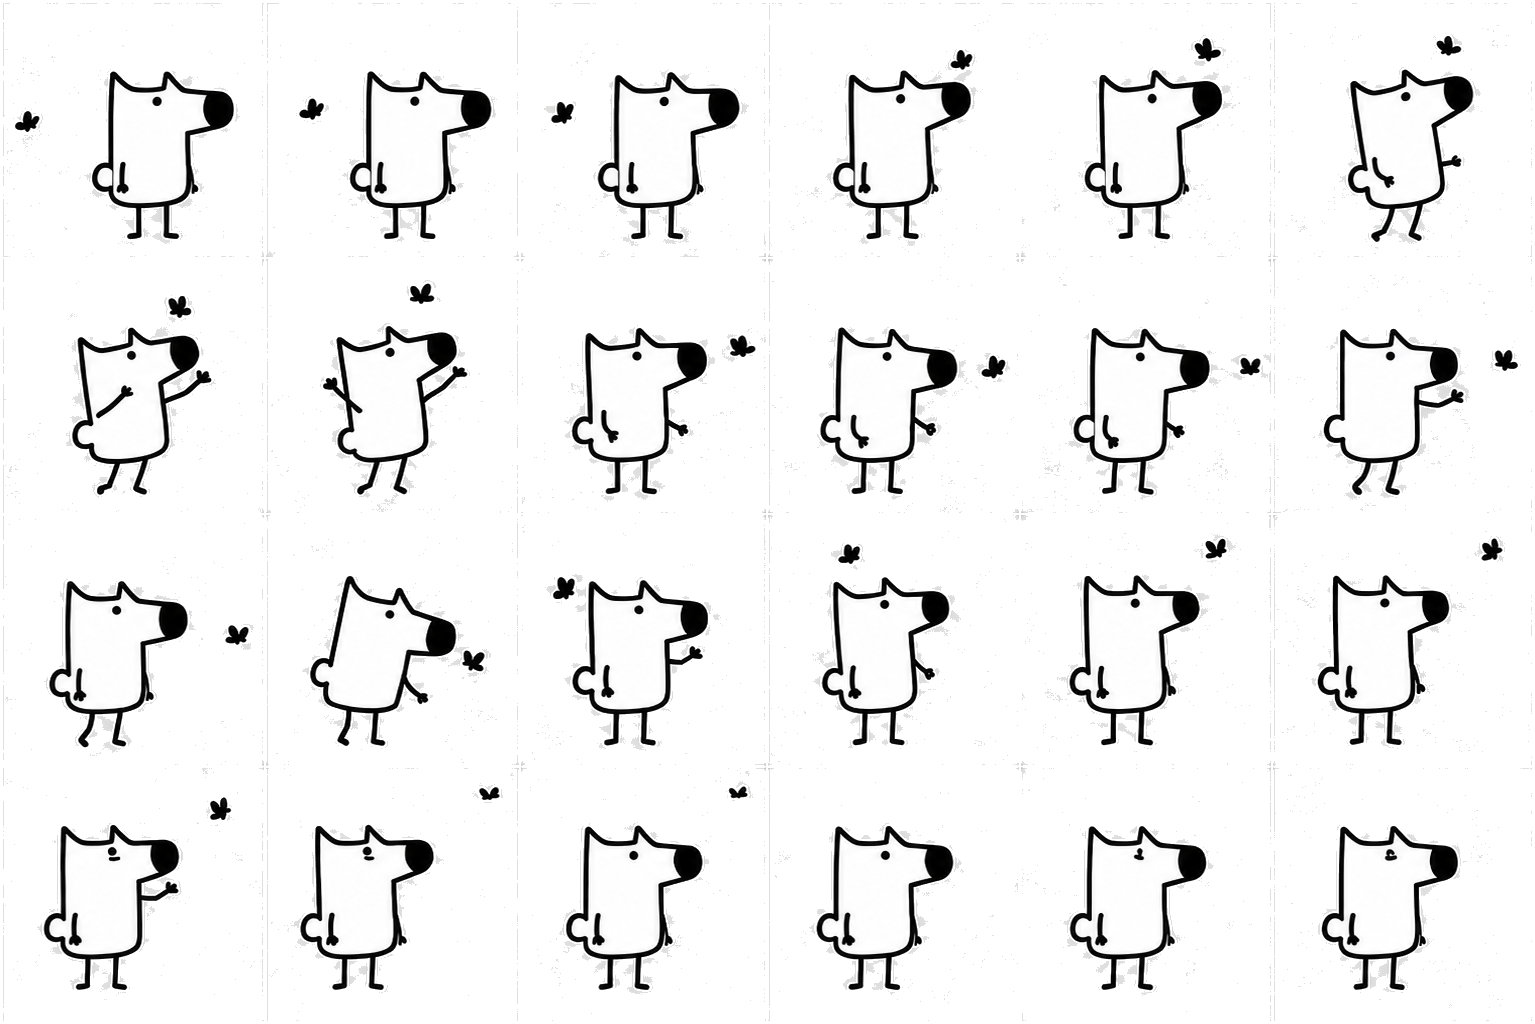
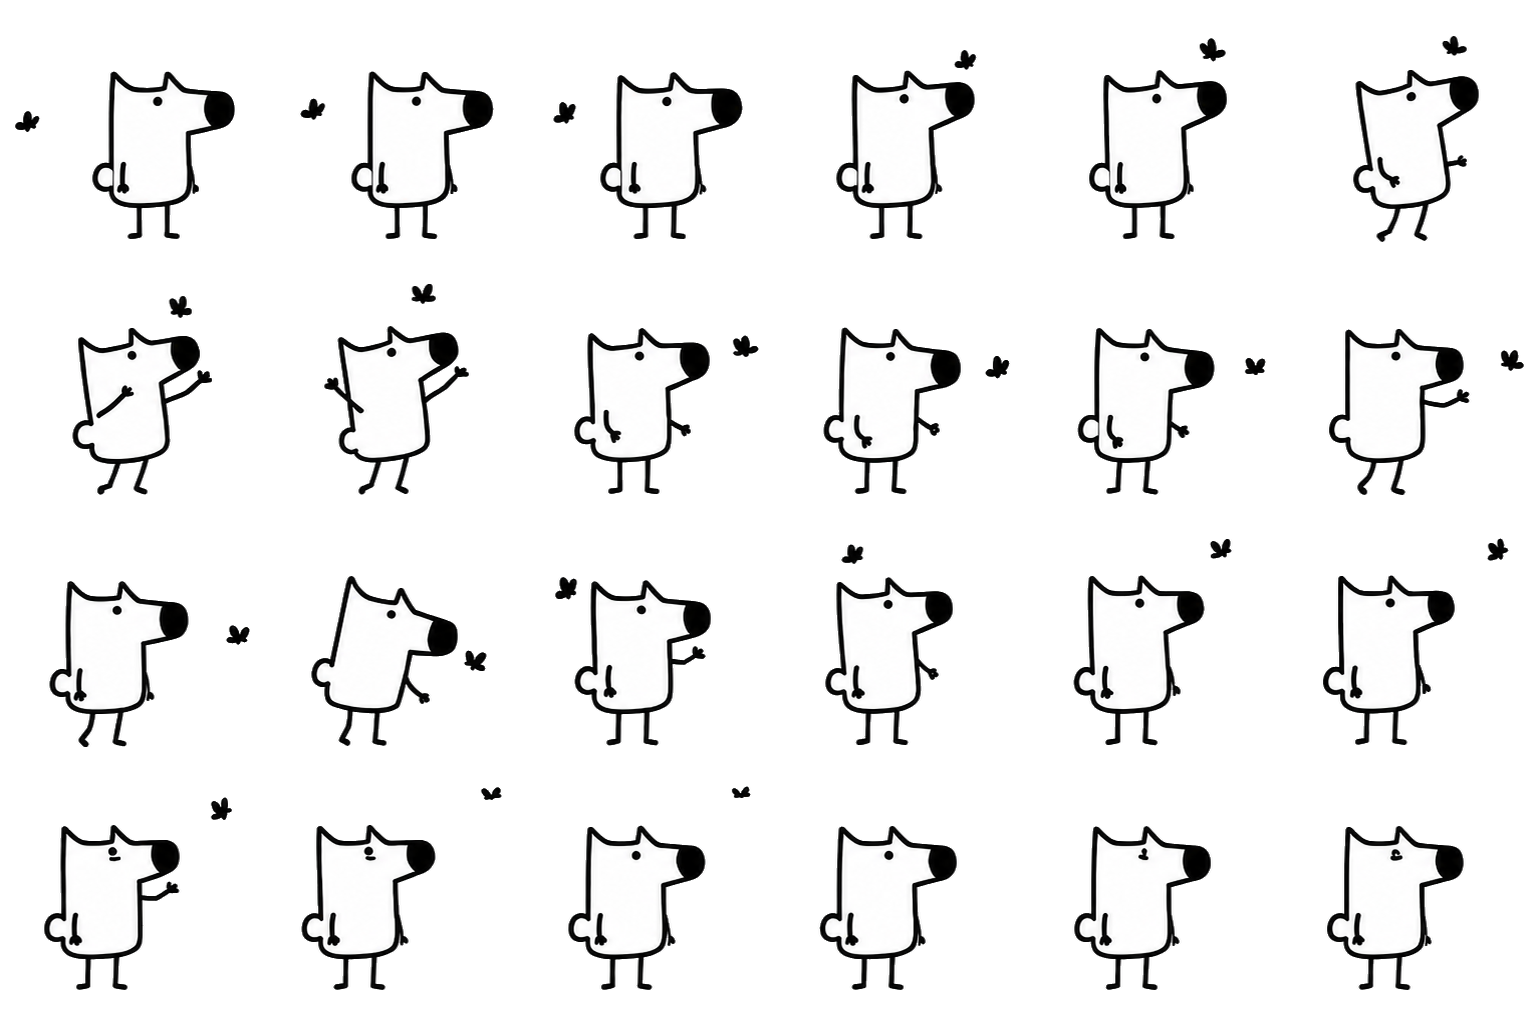
feat: 搜索并行化 + 渲染优化 + UI 细节 - agent: 搜索与模型请求并行，流式响应立即开始 - agent: 修复流式 end 回调重复触发 bug - dialog: 流式渲染改为 requestAnimationFrame 节流 - dialog: 修复有序列表双重编号 (1.1. → 1.) - dialog: 热榜/搜索结果改用 <ol> 渲染 - dialog: 删除消息收藏按钮 - settings: API Key 下方加硬编码说明 - demo: hero 区加单击/拖拽操作提示 - assets: butterfly_sheet.png 去底色修复

diff --git a/electron/agent.ts b/electron/agent.ts
@@ -501,37 +501,33 @@ export class Agent {
       }
     }
 
-    // ---- 直答开启：调 chat API（可选带搜索上下文） ----
-    let searchContext = '';
+    // ---- 直答开启：搜索与模型请求并行，搜索结果仅展示不注入 prompt ----
+    // 立刻启动搜索（不等待），同时直接向模型发送用户消息
+    let searchPromise: Promise<SearchResult[]> = Promise.resolve([]);
     if (this.config.provider === 'zhihu' && this.config.zhihuAccessSecret) {
-      try {
-        var searchResults2: SearchResult[] = [];
-        if (this.config.searchType === 'global') {
-          searchResults2 = await searchZhihuGlobal(content, this.config.zhihuAccessSecret);
-          if (searchResults2.length === 0) searchResults2 = await searchZhihu(content, this.config.zhihuAccessSecret);
-        } else {
-          searchResults2 = await searchZhihu(content, this.config.zhihuAccessSecret);
-          if (searchResults2.length === 0) searchResults2 = await searchZhihuGlobal(content, this.config.zhihuAccessSecret);
+      const accessSecret = this.config.zhihuAccessSecret;
+      const searchType = this.config.searchType;
+      searchPromise = (async () => {
+        try {
+          var results: SearchResult[] = [];
+          if (searchType === 'global') {
+            results = await searchZhihuGlobal(content, accessSecret);
+            if (results.length === 0) results = await searchZhihu(content, accessSecret);
+          } else {
+            results = await searchZhihu(content, accessSecret);
+            if (results.length === 0) results = await searchZhihuGlobal(content, accessSecret);
+          }
+          if (results.length === 0) results = await searchBing(content);
+          return results;
+        } catch (e) {
+          return [];
         }
-        if (searchResults2.length === 0) searchResults2 = await searchBing(content);
-        if (searchResults2.length > 0) {
-          // 模型输入：纯文本格式（不展示给用户）
-          searchContext = `\n\n---\n以下为搜索结果，请参考这些信息回答。回复末尾列出引用的来源，每条一行：\n`;
-          searchResults2.forEach((r, i) => {
-            searchContext += `\n${r.title}\n${r.snippet}\n[${r.title}](${r.url})\n`;
-          });
-          // 视觉展示：传原始数据给 dialog，由模板函数渲染
-          this.searchResults = searchResults2;
-        } else {
-          this.searchResults = [];
-        }
-      } catch (e) { throw e; }
+      })();
     }
+    this.searchResults = []; // 清空上次结果，搜索完成后由调用方取 searchResults
 
-    // Build user message with optional search context
-    const userContent = searchContext
-      ? content + searchContext
-      : content;
+    // 模型直接用原始用户消息（不注入搜索上下文）
+    const userContent = content;
 
     // 构建发送给模型的消息列表
     var sendMessages;
@@ -628,10 +624,10 @@ export class Agent {
             });
             res.on('end', () => {
               if (statusCode >= 400) {
-                var errBody = data || '';
-                try { var ej = JSON.parse(data); errBody = ej.error?.message || ej.error || data.slice(0, 200); } catch (e) { }
-                var errorCode = String(statusCode);
-                if (ej && ej.error?.code) errorCode = ej.error.code;
+                var errBody = '';
+                var ej: any = null;
+                try { ej = JSON.parse(buffer || data); errBody = ej?.error?.message || ej?.error || (buffer || data).slice(0, 200); } catch (e) { }
+                var errorCode = ej?.error?.code ? String(ej.error.code) : String(statusCode);
                 const errMsg = getErrorMessage(errorCode);
                 if (onError) onError(errMsg);
                 reject(new Error(errMsg));
@@ -639,24 +635,23 @@ export class Agent {
               }
               // 优先 content，空时回退 reasoning
               var finalReply = fullReply || reasoningText;
-              if (finalReply) {
-                this.history.push({ role: 'assistant', content: finalReply });
+              if (!finalReply) {
+                const errMsg = '流式响应为空';
+                if (onError) onError(errMsg);
+                reject(new Error(errMsg));
+                return;
+              }
+              this.history.push({ role: 'assistant', content: finalReply });
+              // 等待并行搜索完成（通常已完成），再触发 onDone 让调用方取 searchResults
+              searchPromise.then(results => {
+                this.searchResults = results;
                 if (onDone) onDone(finalReply);
                 resolve(finalReply);
-              } else {
-                const errMsg = '流式响应为空';
-                if (onError) onError(errMsg);
-                reject(new Error(errMsg));
-              }
-              if (fullReply) {
-                this.history.push({ role: 'assistant', content: fullReply });
-                if (onDone) onDone(fullReply);
-                resolve(fullReply);
-              } else {
-                const errMsg = '流式响应为空';
-                if (onError) onError(errMsg);
-                reject(new Error(errMsg));
-              }
+              }).catch(() => {
+                this.searchResults = [];
+                if (onDone) onDone(finalReply);
+                resolve(finalReply);
+              });
             });
           } else {
             // Non-streaming mode
@@ -694,8 +689,15 @@ export class Agent {
                 }
 
                 this.history.push({ role: 'assistant', content: reply });
-                if (onDone) onDone(reply);
-                resolve(reply);
+                searchPromise.then(results => {
+                  this.searchResults = results;
+                  if (onDone) onDone(reply);
+                  resolve(reply);
+                }).catch(() => {
+                  this.searchResults = [];
+                  if (onDone) onDone(reply);
+                  resolve(reply);
+                });
               } catch (e: any) {
                 const errMsg = '解析响应失败: ' + (data ? data.slice(0, 200) : 'empty response');
                 if (onError) onError(errMsg);
@@ -720,12 +722,7 @@ export class Agent {
   }
 }
 
-const DEFAULT_SYSTEM_PROMPT = `## 回答风格
-
-## 关于搜索结果
-当消息中包含搜索结果时，参考这些信息回答。回复末尾列出引用的来源，每条一行，用 * [标题](url) 格式。
-
-## 关于代码
+const DEFAULT_SYSTEM_PROMPT = `## 关于代码
 当用户询问代码问题时，给出清晰的解释和可运行的代码示例。
 
 ## 关于文件系统

diff --git a/src/panels/dialog.js b/src/panels/dialog.js
@@ -6,6 +6,7 @@
   var waiting = false;
   var streamingEl = null;
   var streamingText = '';
+  var streamingRafPending = false;
 
   // ---- Minimal Markdown → HTML ----
   function md2html(text) {
@@ -55,7 +56,7 @@
     if (orderedItems.length > 0) {
       var olHtml = '<ol>';
       orderedItems.forEach(function (item, i) {
-        olHtml += '<li>' + (i + 1) + '. ' + item + '</li>';
+        olHtml += '<li>' + item + '</li>';
       });
       olHtml += '</ol>';
       html = html.replace(/___OL_ITEM___(\n?)*/g, '');
@@ -179,18 +180,6 @@
       });
       footer.appendChild(copyBtn);
 
-      var saveBtn = document.createElement('button');
-      saveBtn.className = 'save-btn';
-      saveBtn.innerHTML = '<span class="material-symbols-outlined" style="font-size:16px;">bookmark_border</span>';
-      saveBtn.title = '收藏';
-      saveBtn.addEventListener('click', function () {
-        if (window.screenToyDialog && window.screenToyDialog.bookmarkMessage) {
-          window.screenToyDialog.bookmarkMessage(text);
-          saveBtn.innerHTML = '<span class="material-symbols-outlined" style="font-size:16px;">bookmark</span>';
-          saveBtn.style.color = '#FF9500';
-        }
-      });
-      footer.appendChild(saveBtn);
 
       container.appendChild(div);
       container.appendChild(footer);
@@ -319,15 +308,17 @@
   // 搜索结果模板 → 可折叠 HTML
   function renderSearchResults(results, title) {
     var html = '<div class="search-results" style="margin-bottom:8px;">🔍 <strong>' + (title || '搜索结果') + '</strong></div>';
+    html += '<ol style="margin:0;padding-left:20px;">';
     results.forEach(function (r) {
-      html += '<div class="hotlist-item">';
+      html += '<li class="hotlist-item">';
       if (r.snippet || r.summary) html += '<span class="hotlist-toggle material-symbols-outlined">expand_more</span>';
       if (r.url) html += '<a href="' + r.url + '" target="_blank" rel="noopener">' + r.title + '</a>';
       else html += r.title;
       var s = r.snippet || r.summary || '';
       if (s) html += '<div class="hotlist-summary">' + s.slice(0, 200) + '</div>';
-      html += '</div>';
+      html += '</li>';
     });
+    html += '</ol>';
     return html;
   }
 
@@ -341,6 +332,7 @@
       i++;
     }
     // 条目
+    html += '<ol style="margin:0;padding-left:20px;">';
     while (i < lines.length) {
       var line = lines[i];
       var match = line.match(/^\*\*(\d+)\.\*\*\s*\[(.+?)\]\((.+?)\)/);
@@ -353,15 +345,16 @@
           summary += lines[i] + ' ';
           i++;
         }
-        html += '<div class="hotlist-item">';
+        html += '<li class="hotlist-item">';
         if (summary.trim()) html += '<span class="hotlist-toggle material-symbols-outlined">expand_more</span>';
         html += '<a href="' + url + '" target="_blank" rel="noopener">' + title + '</a>';
         if (summary.trim()) html += '<div class="hotlist-summary">' + summary.trim() + '</div>';
-        html += '</div>';
+        html += '</li>';
       } else {
         i++;
       }
     }
+    html += '</ol>';
     return html;
   }
 
@@ -569,10 +562,21 @@
         streamingEl.className = 'msg bot';
         msgs.appendChild(streamingEl);
         streamingText = '';
+        streamingRafPending = false;
       }
+      // 累积原始文本（用于历史记录）
       streamingText += chunk;
-      streamingEl.innerHTML = md2html(streamingText);
-      msgs.scrollTop = msgs.scrollHeight;
+      // 节流渲染：每帧最多渲染一次
+      if (!streamingRafPending) {
+        streamingRafPending = true;
+        requestAnimationFrame(function () {
+          streamingRafPending = false;
+          if (streamingEl) {
+            streamingEl.innerHTML = md2html(streamingText);
+            msgs.scrollTop = msgs.scrollHeight;
+          }
+        });
+      }
     });
 
     // 完整响应：最终渲染
@@ -588,6 +592,7 @@
         if (streamingEl.parentNode) streamingEl.remove();
         streamingEl = null;
         streamingText = '';
+        streamingRafPending = false;
         addMsg(msg, 'bot', true);
       } else {
         // 自动检测 HTML 内容（搜索结果 / 热榜已使用 HTML 格式）

diff --git a/src/renderer.js b/src/renderer.js
@@ -181,6 +181,7 @@
   var DOUBLE_CLICK_MS = 400;
 
   var lastMouseMovePos = null;
+  var prevBehaviorState = '';
 
   // Frame timing
   var lastTime = performance.now();
@@ -575,6 +576,18 @@
           butterflyFrameTimer = 0;
         }
       }
+      // ───────────────────────────────────────────────────────────────────────
+
+      // ── Sit state → 歇一会儿 trigger ─────────────────────────────────────
+      if (behavior.state === 'sit' && prevBehaviorState !== 'sit' &&
+          !butterflyActive && hulaPhase === 0 && twistPhase === 0 &&
+          !sneezeActive && !meltActive && freezePhase === 0 && !bigNoseActive && flowerPhase === 0) {
+        butterflyActive = true;
+        butterflyFrameIdx = 0;
+        butterflyFrameTimer = 0;
+        animDialogueFired = {};
+      }
+      prevBehaviorState = behavior.state;
       // ───────────────────────────────────────────────────────────────────────
 
       // ── 人生亦如是 (flower grow → fall) ────────────────────────────────────

diff --git a/demo/index.html b/demo/index.html
@@ -617,6 +617,9 @@ footer a:hover { color: #d05a28; }
       <div class="hero-bubble">今天也要好好的！✨</div>
       <div id="heroCanvas" style="width:420px;height:420px;position:relative;"></div>
       <div class="hero-shadow"></div>
+      <div style="text-align:center;margin-top:12px;font-size:13px;color:#a09080;letter-spacing:0.02em;">
+        单击 TA 打开快捷菜单 · 拖拽随意移动
+      </div>
     </div>
   </div>
 </section>

diff --git a/src/doodle-render.js b/src/doodle-render.js
@@ -200,7 +200,7 @@
   var quitSheet = new Image();
   var quitLoaded = false;
   quitSheet.onload = function () { quitLoaded = true; };
-  quitSheet.src = basePath + 'quit_sheet.png';
+  quitSheet.src = basePath + (Math.random() < 0.5 ? 'quit_sheet.png' : 'quit2_sheet.png');
   if (quitSheet.complete) quitLoaded = true;
 
   // Draw one quit-animation frame into ctx (DISPLAY_W × DISPLAY_H canvas).

diff --git a/src/panels/settings.js b/src/panels/settings.js
@@ -44,7 +44,7 @@
     { id: 'freeze',     label: '冻成冰棍',            icon: '🧊', durationMs: 6000 },
     { id: 'bignose',    label: '大鼻子',              icon: '👃', durationMs: 2000 },
     { id: 'flower',     label: '人生亦如是',           icon: '🌸', durationMs: 5000 },
-    { id: 'butterfly',  label: '看蝴蝶',               icon: '🦋', durationMs: 2000 },
+    { id: 'butterfly',  label: '歇一会儿',              icon: '🦋', durationMs: 2000 },
   ];
 
   var animTimers = {};

diff --git a/src/panels/settings.html b/src/panels/settings.html
@@ -194,6 +194,7 @@
       <span id="toggleApiKey" class="material-symbols-outlined" style="position:absolute;right:32px;top:50%;transform:translateY(-50%);cursor:pointer;font-size:18px;user-select:none;color:#aaa;">visibility_off</span>
       <span id="toggleLock" class="material-symbols-outlined" style="position:absolute;right:8px;top:50%;transform:translateY(-50%);cursor:pointer;font-size:18px;user-select:none;color:#aaa;" title="锁定/解锁编辑">lock</span>
     </div>
+    <p style="margin:4px 0 0;font-size:11px;color:#aaa;line-height:1.4;">当前 Key 由开发者内置，无需自行填写。如需使用自己的知乎开放平台账号，可在此替换。</p>
   </div>
 </div>
 